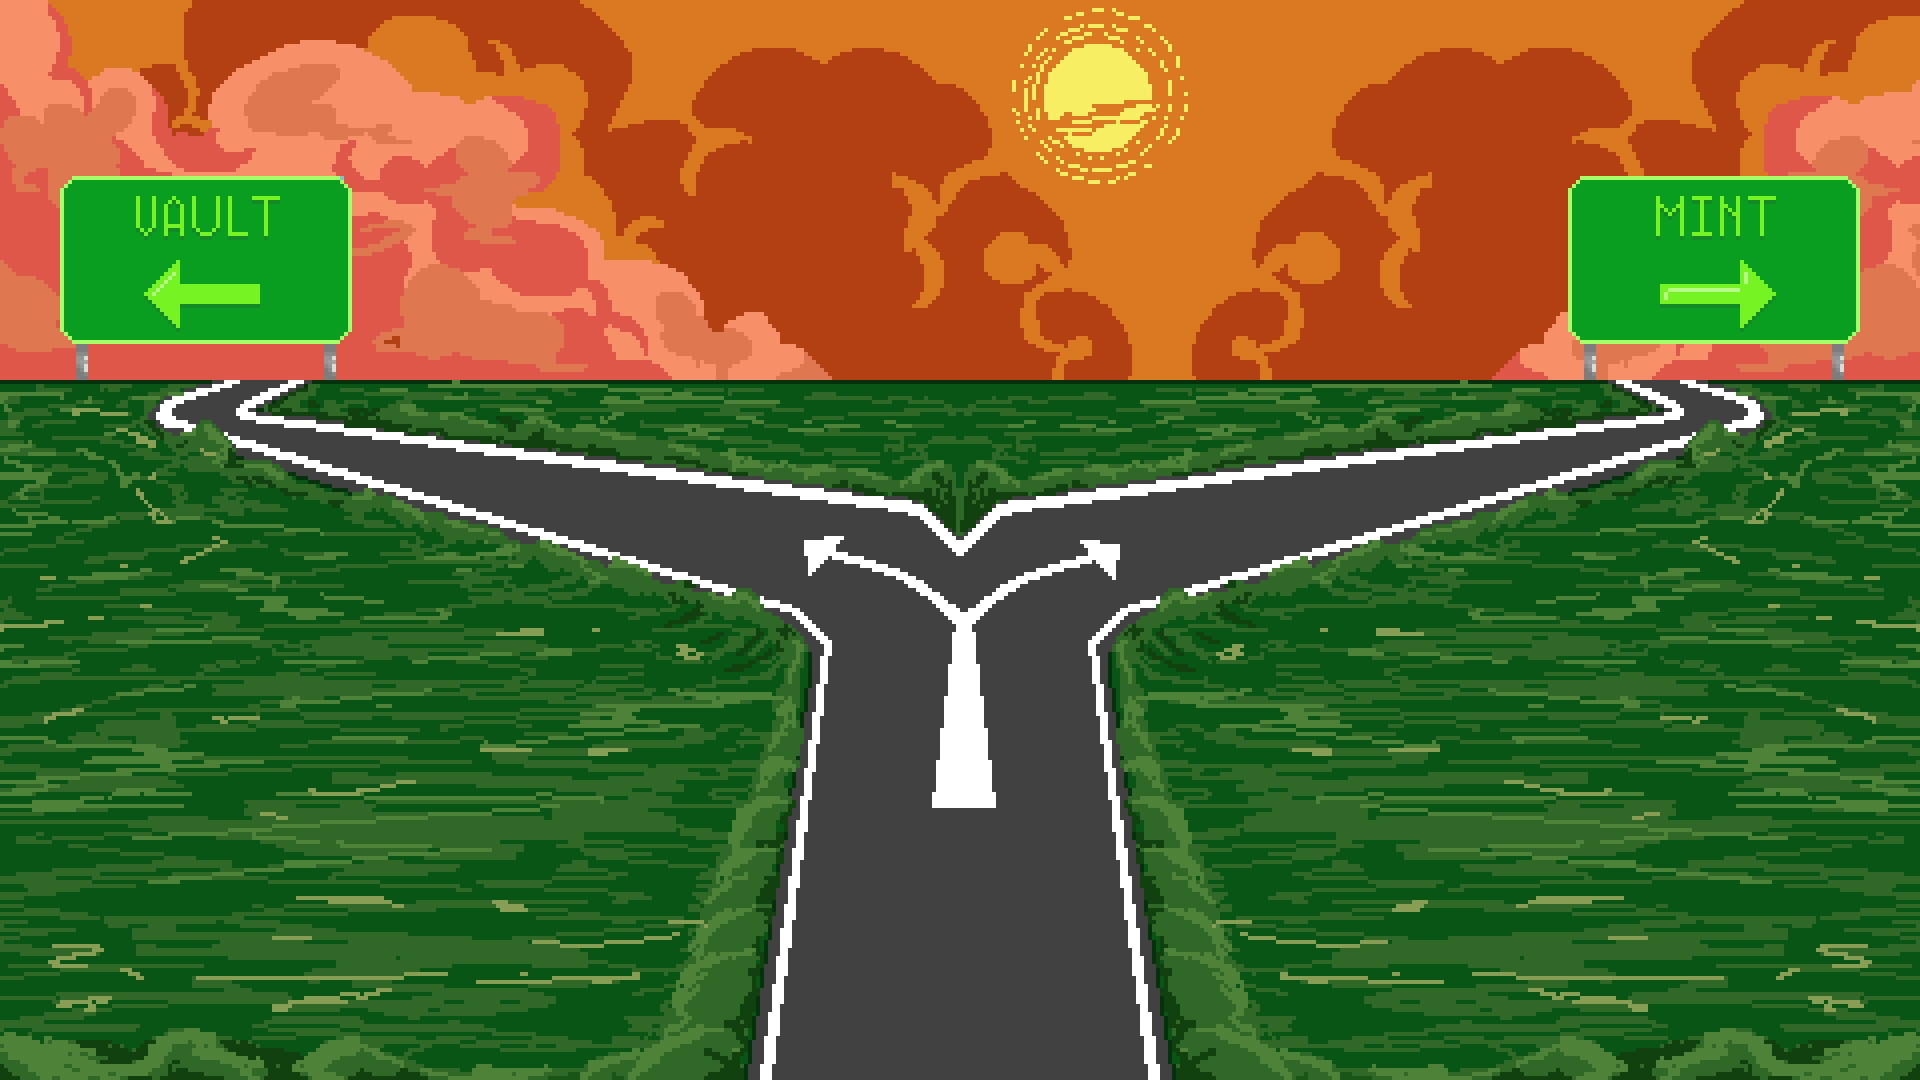
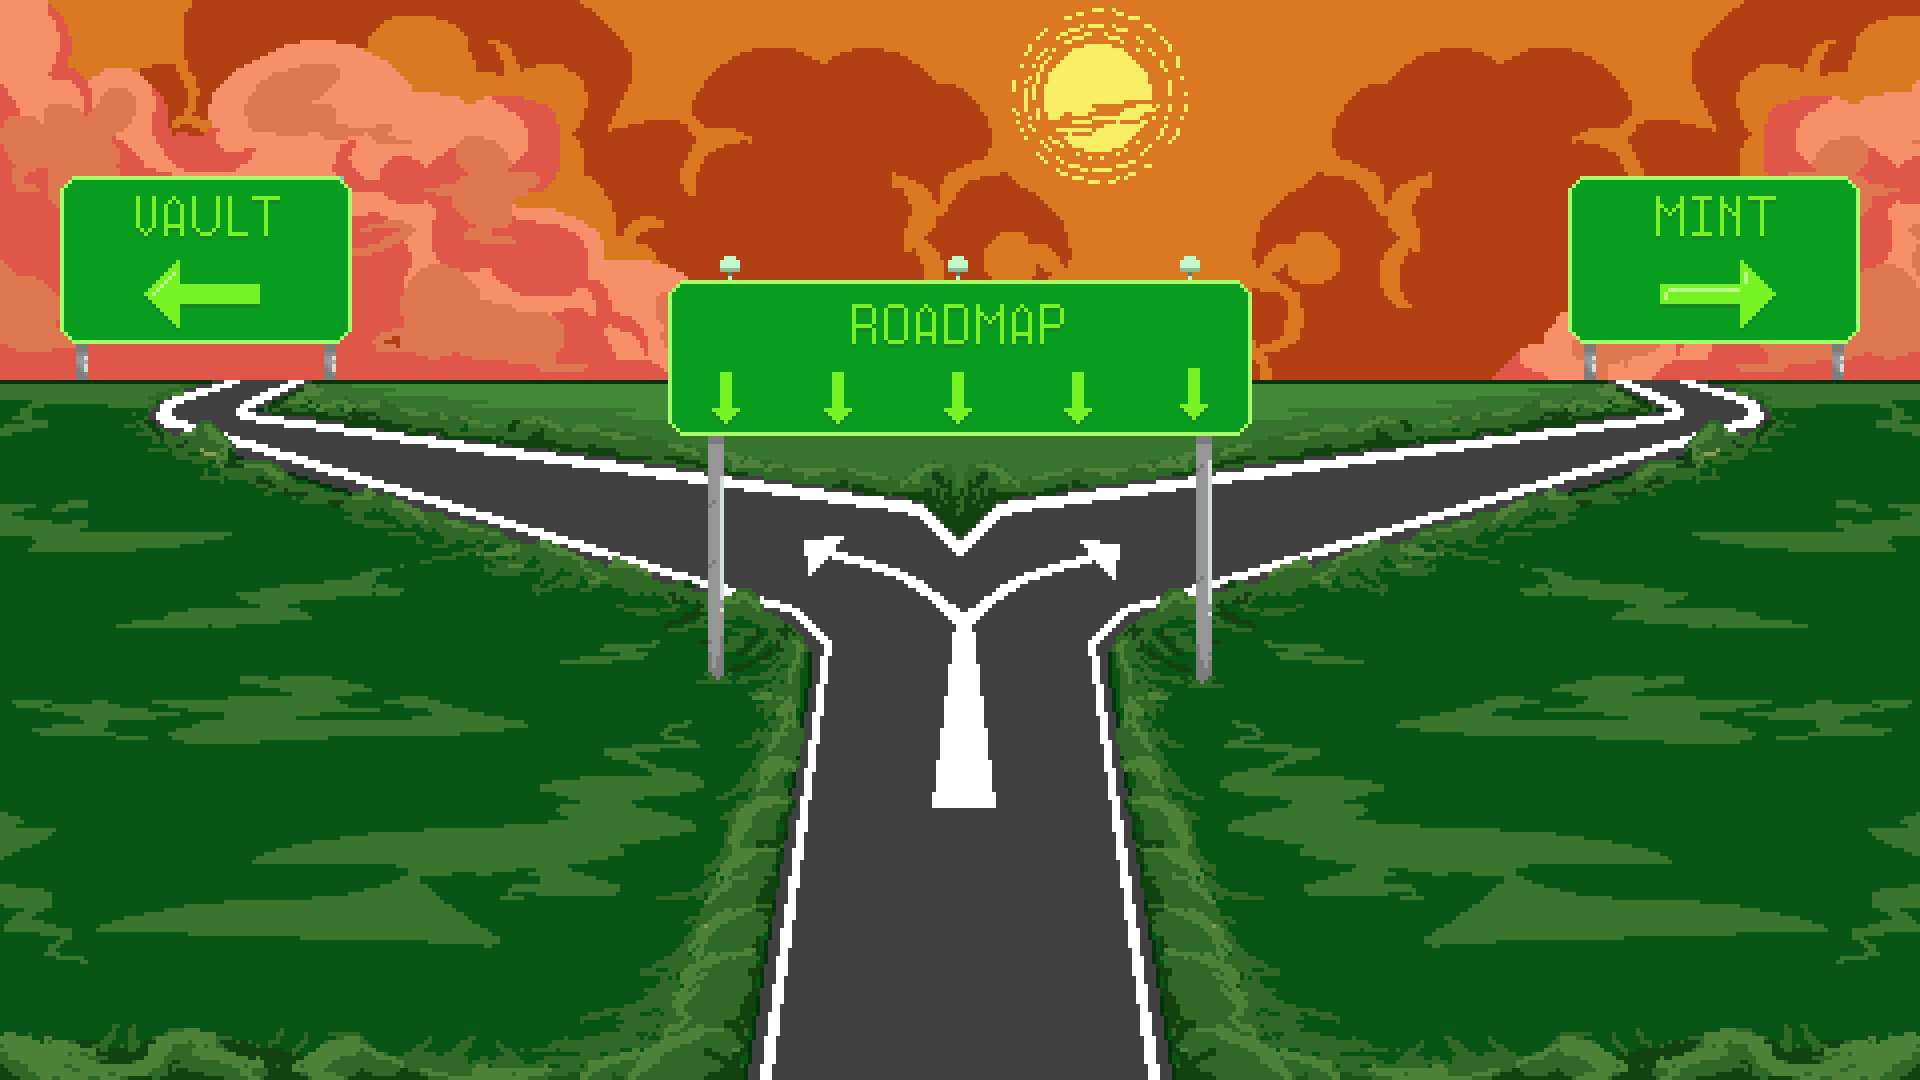
official

Changed region(s): [[0.0, 0.2444, 1.0, 1.0]]

diff --git a/pages/components/Roadmap.tsx b/pages/components/Roadmap.tsx
@@ -1,0 +1,164 @@
+import React from "react";
+import Head1 from "./Triple Head/Header1";
+
+function Roadmap() {
+  return (
+    <div className="h-screen overflow-y-scroll sticky">
+      <Head1 />
+      <img
+        className="w-[1150px] h-[800px] absolute -ml-32 -mt-10 -z-10"
+        src="/images/Lines.png"
+        alt=""
+      />
+
+      <div className="flex flex-col justify-center items-center mt-32">
+        <p className="text-white text-2xl font-bold mb-10 text-center">
+          Watch this first before scrolling any further!
+        </p>
+
+        <div className="bg-gray-500 w-[590px] h-[315px] rounded-3xl border-2 flex justify-center items-center max-[700px]:w-[540px] max-[600px]:w-[490px] max-[540px]:w-[430px] max-[485px]:w-[380px] max-[450px]:w-[330px]">
+          <p className="underline text-white text-2xl rotate-[24deg]">
+            Video coming soon!
+          </p>
+        </div>
+        {/* <iframe
+          className="rounded-3xl border-2 border-white max-[700px]:w-[540px] max-[600px]:w-[490px] max-[540px]:w-[430px] max-[485px]:w-[380px] max-[450px]:w-[330px]"
+          width="590"
+          height="315"
+          src="https://www.youtube.com/embed/_u0gD1e59qE"
+          title="YouTube video player"
+          allow="accelerometer; autoplay; clipboard-write; encrypted-media; gyroscope; picture-in-picture; web-share"
+          allowFullScreen
+        ></iframe> */}
+        <div className="w-1/2 mt-12 max-[1250px]:w-3/4">
+          <p className="text-white text-center">
+            Huff... <br />
+            <br />
+            We know that you are here because you are{" "}
+            <span className="font-bold">
+              craving to change your life for the better
+            </span>
+            , <br />
+            <br />
+            <br /> that you are{" "}
+            <span className="font-bold">tired of losing money</span>,<br />
+            <br />
+            <br /> that you{" "}
+            <span className="font-bold">
+              need guidance of direction of which way to go
+            </span>
+            ,<br />
+            <br />
+            <br /> or you are enough of{" "}
+            <span className="font-bold">
+              cash grabs of scams in the space
+            </span>. <br />
+            <br />
+            <br />
+            In <span className="italic">We Are Exhausted</span>,<br />
+            <br />
+            <br /> that is exactly our <span className="font-bold">aim</span> as
+            well as <span className="font-bold">long term mission</span> that we
+            will and are capable to execute. <br />
+            <br />
+            <br /> For <span className="text-red-500">more than one year</span>,
+            we have been working on the project to provide our community of
+            their best interest, a platform and high level software that
+            includes A to Z step by step blueprints in different business niches
+            led by our experts. <br />
+            <br />
+            <br /> Not only that, plenty of ressources, networks, webinars,
+            QnAs, in person mastermind events will also be provided; a whole
+            literal facility and unfair edges to each of your own wealth
+            creation.
+          </p>
+        </div>
+      </div>
+
+      <div className="flex justify-center items-center text-center mt-32">
+        <p className="text-white font-bold text-3xl underline">
+          Exhausted Roadmap
+        </p>
+      </div>
+
+      <div className="absolute overflow-hidden h-[1040px] -z-10 max-[830px]:hidden">
+        <img
+          className="mt-[300px] opacity-70"
+          src="/images/diagram.png"
+          alt=""
+        />
+      </div>
+
+      <div className="flex justify-center items-center mt-16 mb-32">
+        <div className="h-[650px] border-l-2 border-[#183C7A] -ml-16 mr-10 max-[830px]:hidden">
+          <div className="flex flex-col justify-between h-[650px] -ml-[15px]">
+            <div className="flex items-center">
+              <div className="border-[15px] border-[#183C7A] rounded-full mt-10"></div>
+              <span className="mt-9 ml-4 text-2xl font-bold text-[#183C7A]">
+                &lArr;
+              </span>
+            </div>
+            <div className="flex items-center">
+              <div className="border-[15px] border-[#183C7A] rounded-full mt-10"></div>
+              <span className="mt-9 ml-4 text-2xl font-bold text-[#183C7A]">
+                &lArr;
+              </span>
+            </div>
+            <div className="flex items-center">
+              <div className="border-[15px] border-[#183C7A] rounded-full mb-10"></div>
+              <span className="mb-9 ml-4 text-2xl font-bold text-[#183C7A]">
+                &lArr;
+              </span>
+            </div>
+          </div>
+        </div>
+
+        <div className="flex flex-col justify-between items-center text-center w-[600px]">
+          <div className="flex flex-col items-center mb-24 w-5/6">
+            <p className="text-white font-bold text-2xl mb-4">Phase 1 :</p>
+            <li className="text-white text-lg">Pre mint utilities</li>
+            <li className="text-white text-lg">Community building</li>
+            <li className="text-white text-lg">
+              Collaboration & exhausted assets launch
+            </li>
+            <li className="text-white text-lg">Begin the mint</li>
+          </div>
+          <div className="flex flex-col items-center mb-24 w-5/6">
+            <p className="text-white font-bold text-2xl mb-3">Phase 2 :</p>
+            <li className="text-white text-lg">
+              Launch all of the utilities after day 1 of mint
+            </li>
+            <li className="text-white text-lg">Art reveal</li>
+            <li className="text-white text-lg">Partnerships & merger talks</li>
+            <li className="text-white text-lg">
+              In real life events twice a year in Greece and Spain
+            </li>
+          </div>
+          <div className="flex flex-col items-center w-5/6">
+            <p className="text-white font-bold text-2xl mb-4">Phase 3 :</p>
+            <li className="text-white text-lg">
+              Launch the most powerful SaaS tool in web3 accessible to our
+              holders
+            </li>
+            <li className="text-white text-lg">
+              Continue growing community and proper branding (IP)
+            </li>
+          </div>
+        </div>
+      </div>
+
+      <div className="flex justify-center items-center max-[830px]:mb-14">
+        <div className="w-3/4">
+          <p className="text-white text-center text-lg">
+            While we are condifent to guaranteed at least a 10x return of
+            investment by taking advantages on our utilities alone, we are
+            aiming to be the first if not the most innovative project bringing
+            massive changed to the industry, setting new standards.
+          </p>
+        </div>
+      </div>
+    </div>
+  );
+}
+
+export default Roadmap;

diff --git a/pages/components/Choice.tsx b/pages/components/Choice.tsx
@@ -8,78 +8,26 @@ const Choice: NextPage = () => {
   const { theme } = useTheme();
   const imageSrc =
     theme === "dark"
-      ? "/images/page4/Exhausted RoadMap Page Night.png "
+      ? "/images/page4/Exhausted RoadMap Page Night.png"
       : "/images/page4/Exhausted RoadMap Page Day.png";
+
+  const roadmap =
+    theme === "dark"
+      ? "/images/page4/Exhausted RoadMap Sign Night.png"
+      : "/images/page4/Exhausted RoadMap Sign Day.png";
 
   return (
     <div>
       <Head1 />
-      <div className="flex justify-center items-center">
-        <div className="z-20 absolute pt-72 flex justify-center items-center max-[1335px]:pt-[360px] max-[1000px]:hidden">
-          <div className="w-[51%] bg-black bg-opacity-50 p-2 rounded-3xl">
-            <p className="text-white text-sm text-center max-[1335px]:text-xs">
-              We know that you are here because you are craving to change your
-              life for better, that you are tired of losing money, that you need
-              guidance of direction of which to go. In We Are Exhausted, that is
-              exactly our aim as well as long term mission that we will and are
-              capable to execute. For more than one year, we have been working
-              on the project to provide our community of their best interest, a
-              platform and high level software that includes A to Z step by step
-              blueprints in different business niches led by our experts. Not
-              only that, plenty of resources, networks, webinars, QnAs, in
-              person mastermind events will also be provided; a whole literal
-              facility and unfair edges to each of your own wealth creation.
-            </p>
-          </div>
-        </div>
-      </div>
-
-      <div className="flex justify-start">
-        <div className="z-20 absolute ml-10 flex justify-start box-text max-[1000px]:hidden">
-          <div className="w-[70%] bg-black bg-opacity-50 p-2 rounded-xl rounded-tr-[150px] max-[1285px]:w-[60%]">
-            <p className="text-bold text-white text-sm">Phase 1 :</p>
-            <li className="text-white text-sm">Pre mint utilities</li>
-            <li className="text-white text-sm">Community building</li>
-            <li className="text-white text-sm">
-              Collaborations & Exhausted assets launch
-            </li>
-            <li className="text-white text-sm">Begin the mint</li>
-
-            <p className="text-bold text-white text-sm">Phase 2 :</p>
-            <li className="text-white text-sm">
-              Launch all of the utilities after day 1 of mint
-            </li>
-            <li className="text-white text-sm">Art reveal</li>
-            <li className="text-white text-sm">Partnerships & mergers talks</li>
-
-            <p className="text-bold text-white text-sm">Phase 3 :</p>
-            <li className="text-white text-sm">
-              In real life events twice a year
-            </li>
-            <li className="text-white text-sm">
-              Launch the most powerful SaaS in web3 accessible to our holders
-            </li>
-            <li className="text-white text-sm">
-              Continue growing community & proper branding
-            </li>
-          </div>
-        </div>
-      </div>
-
-      <div className="flex justify-end">
-        <div className="z-20 absolute pt-[470px] mr-8 flex justify-end max-[1360px]:pt-[410px] max-[1000px]:hidden">
-          <div className="w-[35%] p-3 bg-black bg-opacity-50 rounded-3xl">
-            <p className="text-white text-center">
-              While we are confident to guarantee at least a 10x return of
-              investment by taking advantages on our utilities alone, we are
-              aiming to be the first if not the most innovative project bringing
-              massive changes to the industry, setting new standards.
-            </p>
-          </div>
-        </div>
-      </div>
 
       <img className="h-screen w-screen z-0" src={imageSrc} alt="" />
+      <Link href="Roadmap">
+        <img
+          className="absolute w-[472px] h-[300px] top-[180px] left-[530px]"
+          src={roadmap}
+          alt=""
+        />
+      </Link>
       <img
         className="absolute w-[9%] h-[18%] bottom-5 right-[45.2%]"
         src="/images/page4/Exhausted RoadMap Car.gif"
@@ -92,13 +40,11 @@ const Choice: NextPage = () => {
           alt=""
         />
       </Link>
-      {/* <Link href="Utility" className="cursor-pointer">
         <img
-          className="absolute w-[16.1%] h-[20%] left-[2.7%] top-[15.5%]"
+          className="absolute w-[16.1%] h-[20%] left-[2.7%] top-[15.5%] cursor-not-allowed"
           src="/images/page4/Exhausted RoadMap Signs Vault.png"
           alt=""
         />
-      </Link>*/}
     </div>
   );
 };
